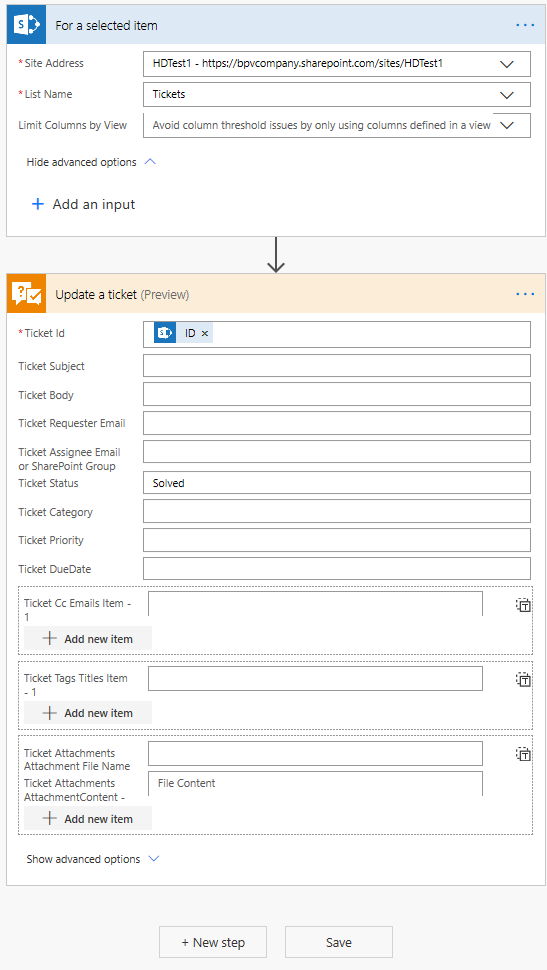
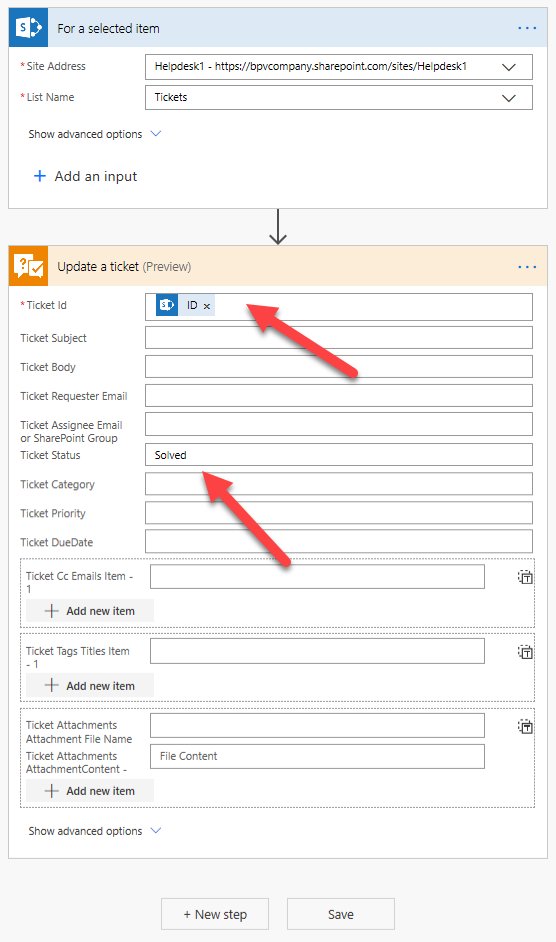
updated How to add quick actions to the context menu of tickets

Changed region(s): [[0.0, 0.0, 1.0, 0.9236], [0.3419, 0.9544, 0.4662, 0.9851], [0.5905, 0.9544, 0.6527, 0.9851]]

diff --git a/Online/How To/How to add quick actions to the context menu of tickets.rst b/Online/How To/How to add quick actions to the context menu of tickets.rst
@@ -48,6 +48,10 @@ I specify the Helpdesk site address and the list name "Tickets".
 
 Then I search for Helpdesk connector
 
+.. image:: ../_static/img/search-for-helpdesk-connector.png
+   :alt: Search for Helpdesk connector
+
+Select `Update a ticket`_ action, specify the Ticket ID from the previous step and put ticket status "Solved".
 
 
 .. image:: ../_static/img/resolve-ticket-flow.png
